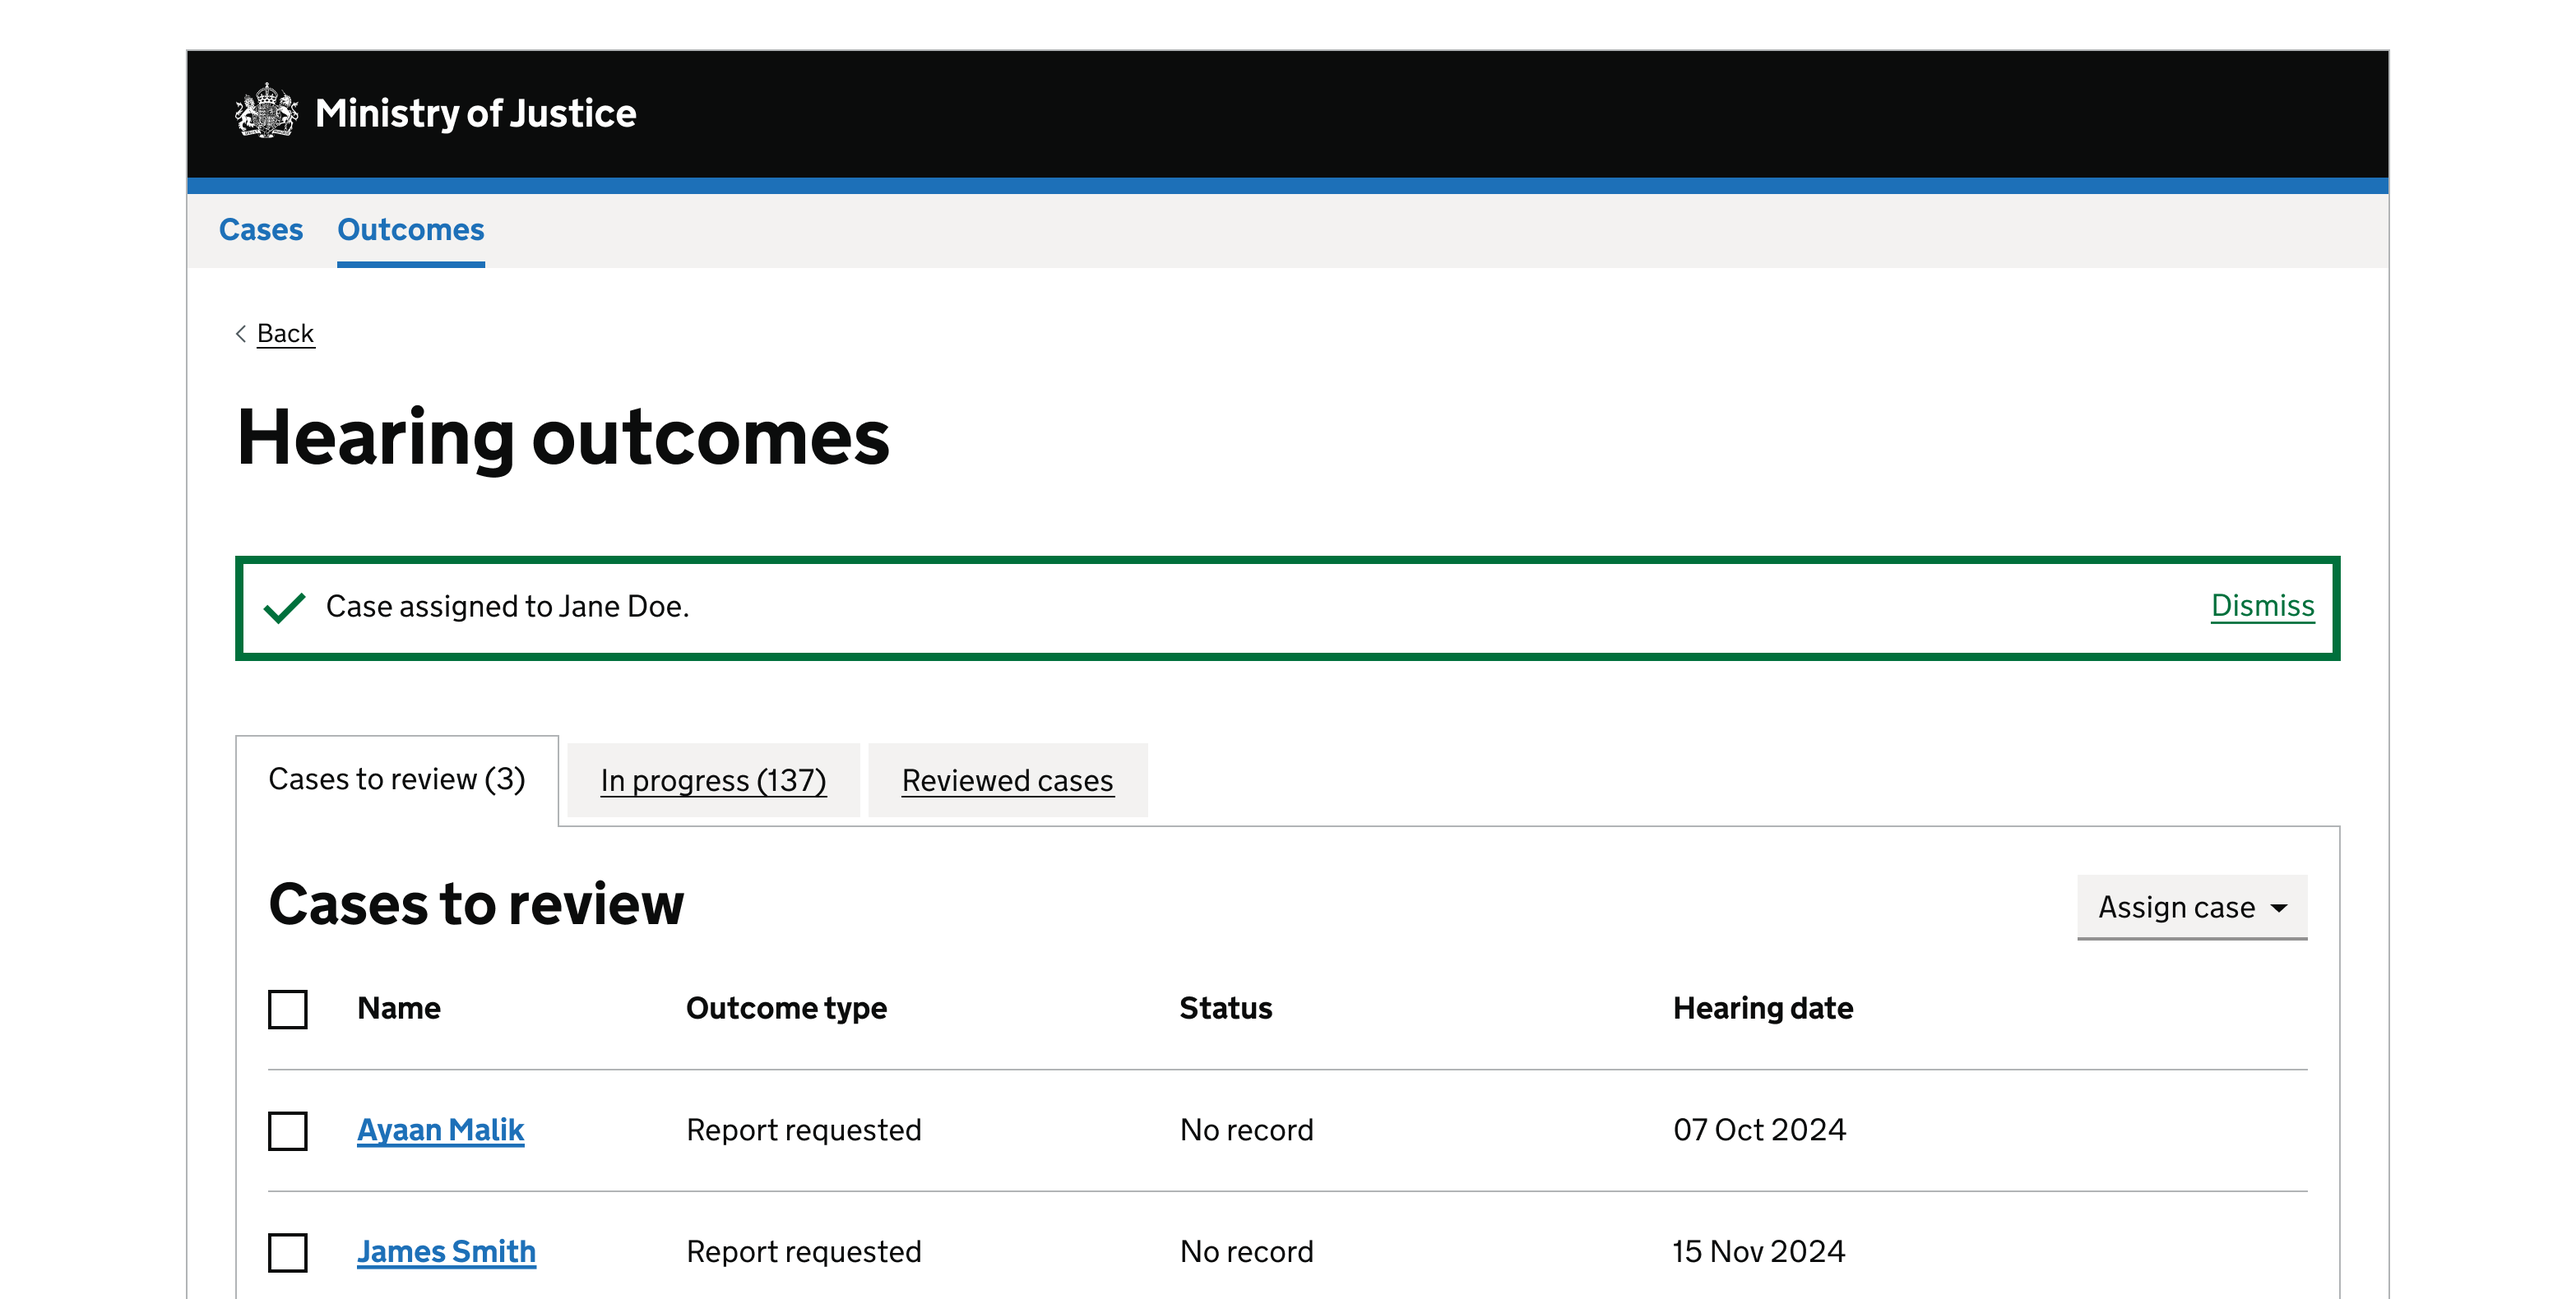
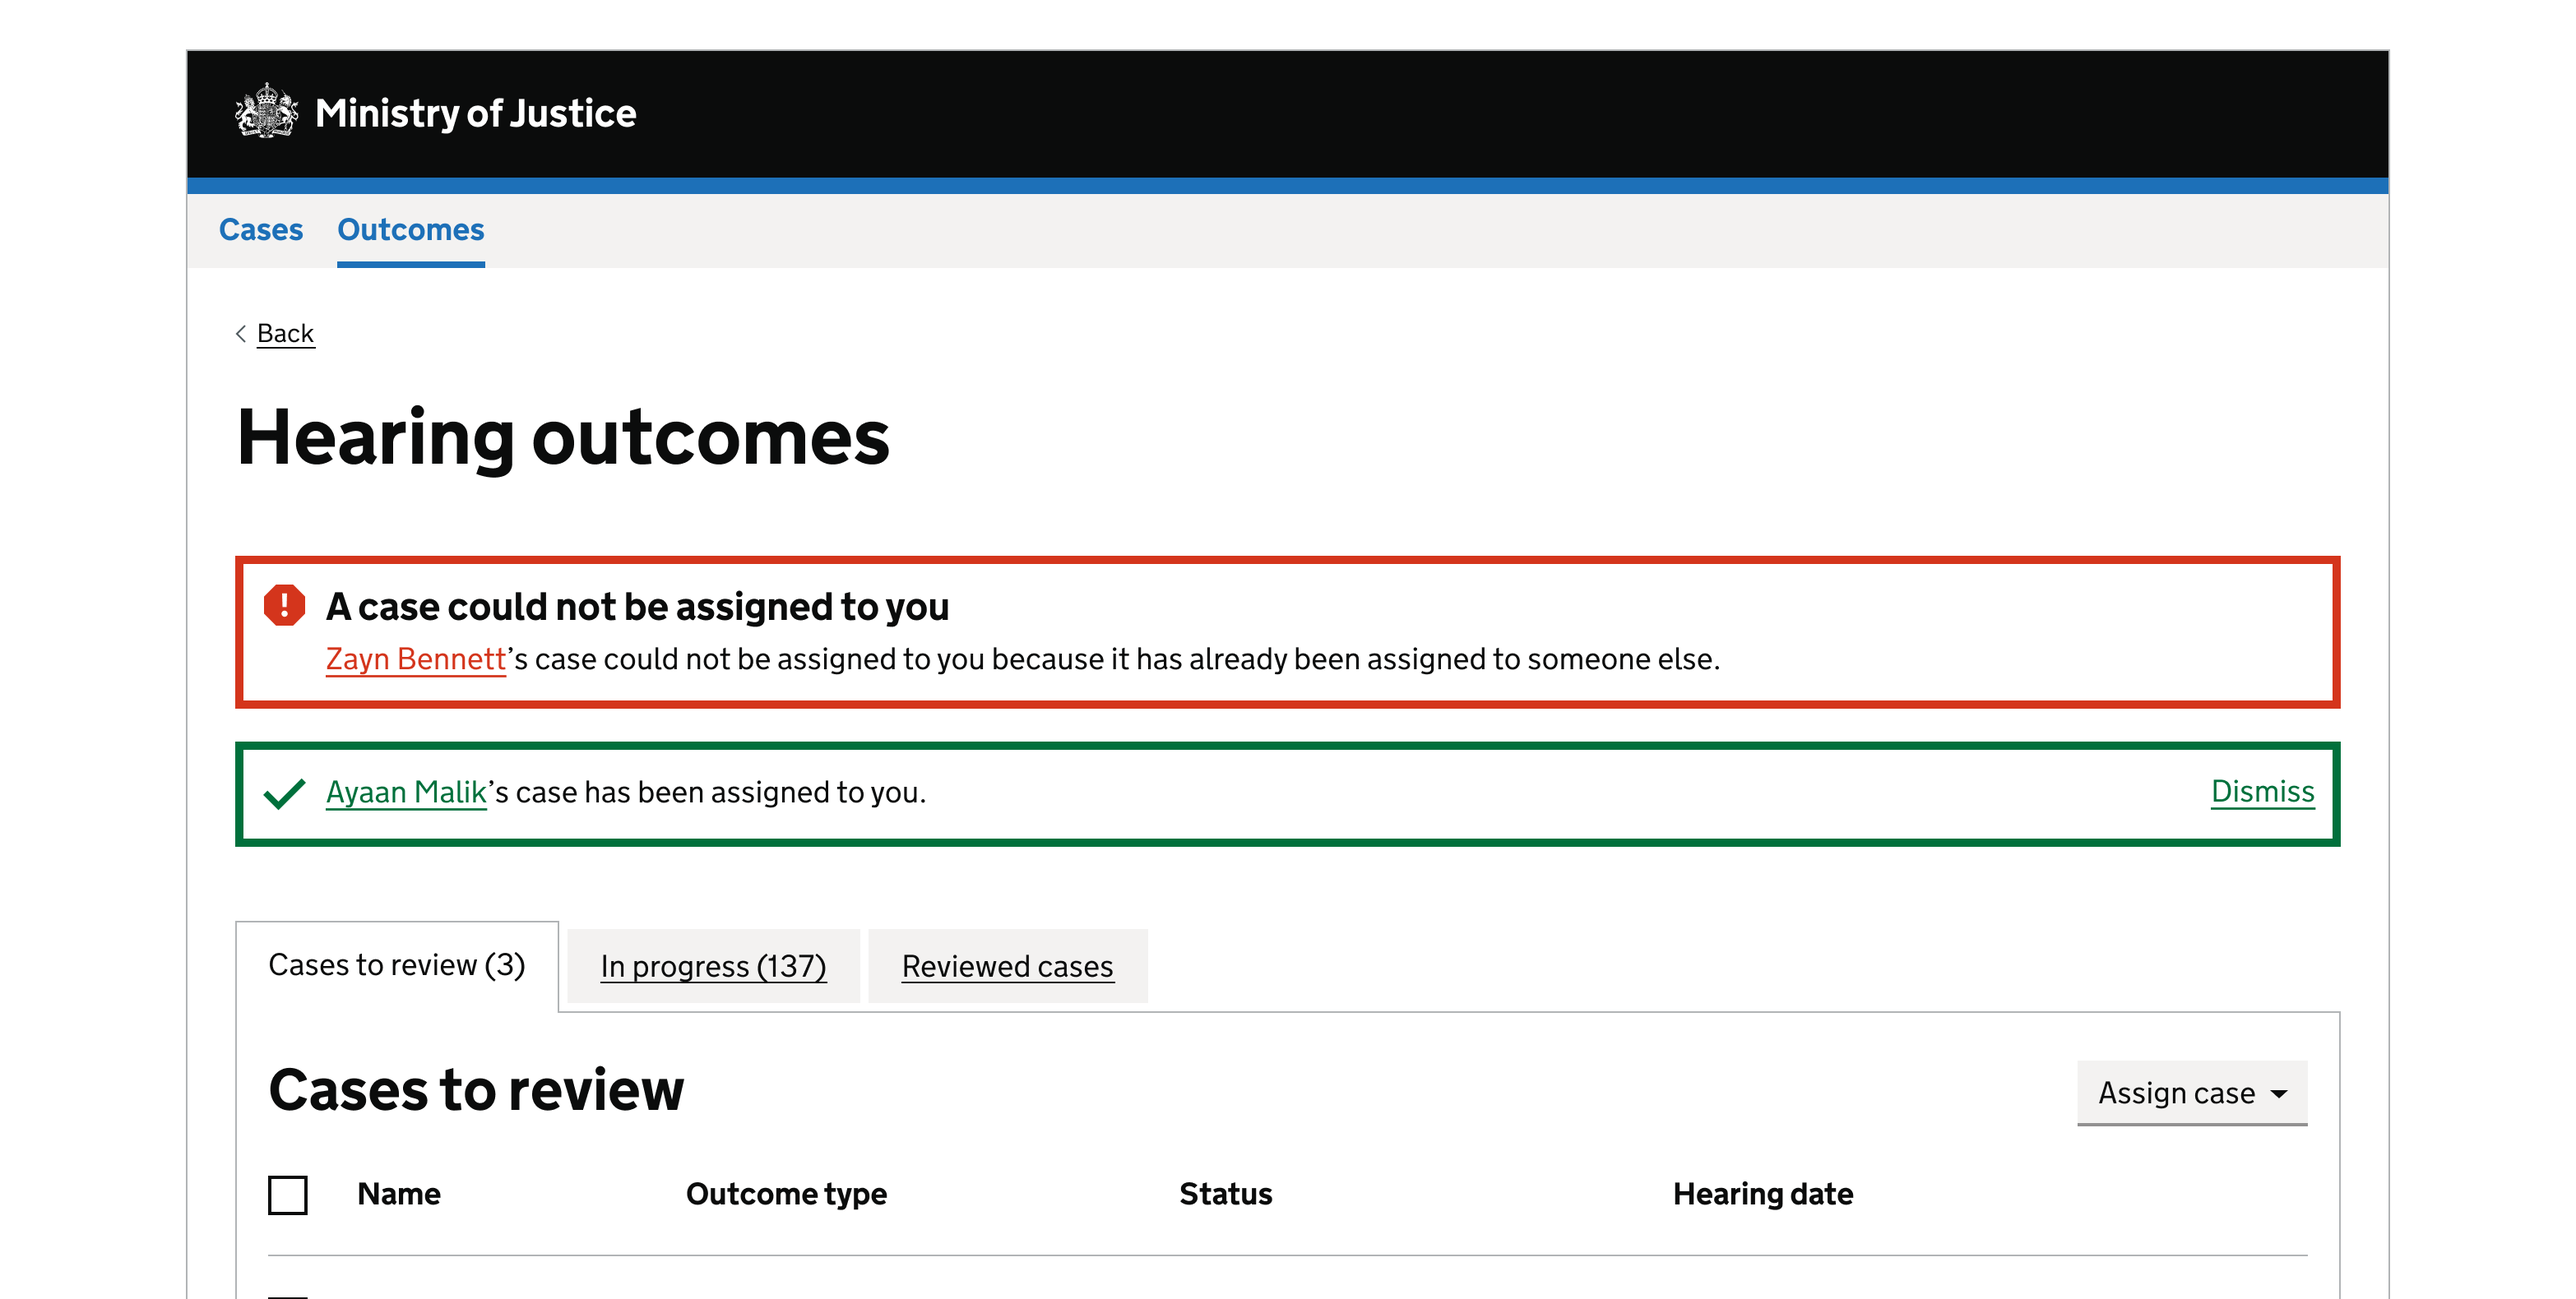
docs(alert): add example, code tweaks

diff --git a/docs/components/alert.md b/docs/components/alert.md
@@ -81,7 +81,7 @@ The error alert shows the user that something has gone wrong. It pauses the user
   <span class="govuk-warning-text__icon" aria-hidden="true">!</span>
   <strong class="govuk-warning-text__text">
     <span class="govuk-visually-hidden">Warning</span>
-Do not use the error alert for validation errors. Continue to use the <a href="https://design-system.service.gov.uk/components/error-message/">GOV.UK error message</a> for this.</strong>
+      Do not use the error alert for validation errors. Continue to use the <a href="https://design-system.service.gov.uk/components/error-message/">GOV.UK error message</a> for this.</strong>
 </div>
 
 #### When to use
@@ -113,7 +113,7 @@ The success banner can be used to show that something has:
 - been uploaded or added, such as a file or record
 - changed status, for example allocated to someone or moved to another stage in an application process
 - been cancelled, deleted or another type of destructive action
-- been changed or deleted from a table using the [multi-select component](https://design-patterns.service.justice.gov.uk/components/multi-select/)
+- been changed or deleted from a table using the [multi-select component](/components/multi-select/)
 
 If you need to display more information or want a more prominent component, consider the [success variation of the GOV.UK notification banner](https://design-system.service.gov.uk/components/notification-banner/#reacting-to-something-the-user-has-done).
 
@@ -197,7 +197,7 @@ The link text colour matches the variant. Each alert has an icon, which must not
 
 #### Alert usage on coloured backgrounds
 
-The alert is accessible on a <code>govuk-colour("white")</code> or <code>govuk-colour("light-grey")</code> background.
+The alert is accessible on a `govuk-colour("white")` or `govuk-colour("light-grey")` background.
 
 An alert should not be placed on a coloured background because:
 
@@ -210,11 +210,11 @@ An alert should not be placed on a coloured background because:
 
 ## Examples
 
-### Within a case management system
+### Alerts in a case management system
 
-A success alert positioned under a H1 on a dashboard shows a user that the task they just completed was successful. This prevents the need for a separate page to be shown to the user.
+An error and success alert under an H1 shows a user that one of their tasks failed, and another was successful. It can be shown on the dashboard rather than another page.
 
-<p><img src="{{ 'assets/images/alert-example-case-management.png' | rev | url }}" alt="A Ministry of Justice website with the heading 'Hearing outcomes'. A success alert which reads 'Case assigned to Jane Doe' is below the heading. Below the alert are tabs with the titles 'Cases to review (3)', 'In progress (137)' and 'Reviewed cases'. The 'cases to review' tab is active and contains a table where each row gives details of a case. Rows can be selected with a checkbox and there is a button menu with the label 'Actions' in the upper right corner of the table."></p>
+<p><img src="{{ 'assets/images/alert-example-case-management.png' | rev | url }}" alt="A Ministry of Justice website with the heading 'Hearing outcomes'. An error alert with a heading which reads 'A case could not be assigned to you' and body content which reads 'Zayn Bennett’s case could not be assigned to you because it has already been assigned to someone else.' is below the heading. A success alert which reads 'Case assigned to Jane Doe' is below the error alert. Below the alert are tabs with the titles 'Cases to review (3)', 'In progress (137)' and 'Reviewed cases'. The 'cases to review' tab is active and contains a table where each row gives details of a case. Rows can be selected with a checkbox and there is a button menu with the label 'Actions' in the upper right corner of the table."></p>
 
 ### Error alert under a subheading
 
